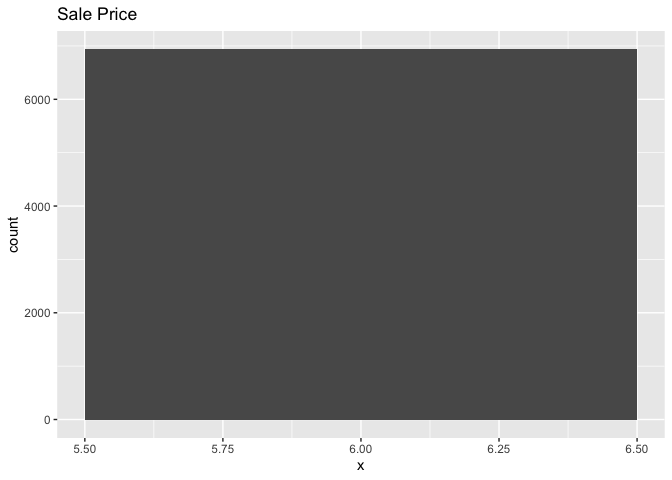
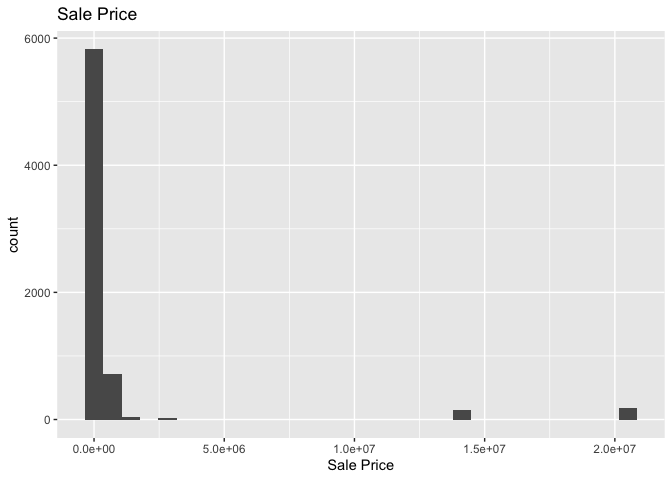
question 3

diff --git a/README.md b/README.md
@@ -40,10 +40,12 @@ names(ames)
 
 ``` r
 ## 3)
-ggplot(ames, aes(x = 6)) + 
-  geom_histogram(binwidth = 1) +
+ggplot(ames, aes(x = `Sale Price`)) + 
+  geom_histogram() +
   ggtitle("Sale Price")
 ```
+
+    ## `stat_bin()` using `bins = 30`. Pick better value with `binwidth`.
 
 ![](README_files/figure-gfm/unnamed-chunk-4-1.png)<!-- -->
 
